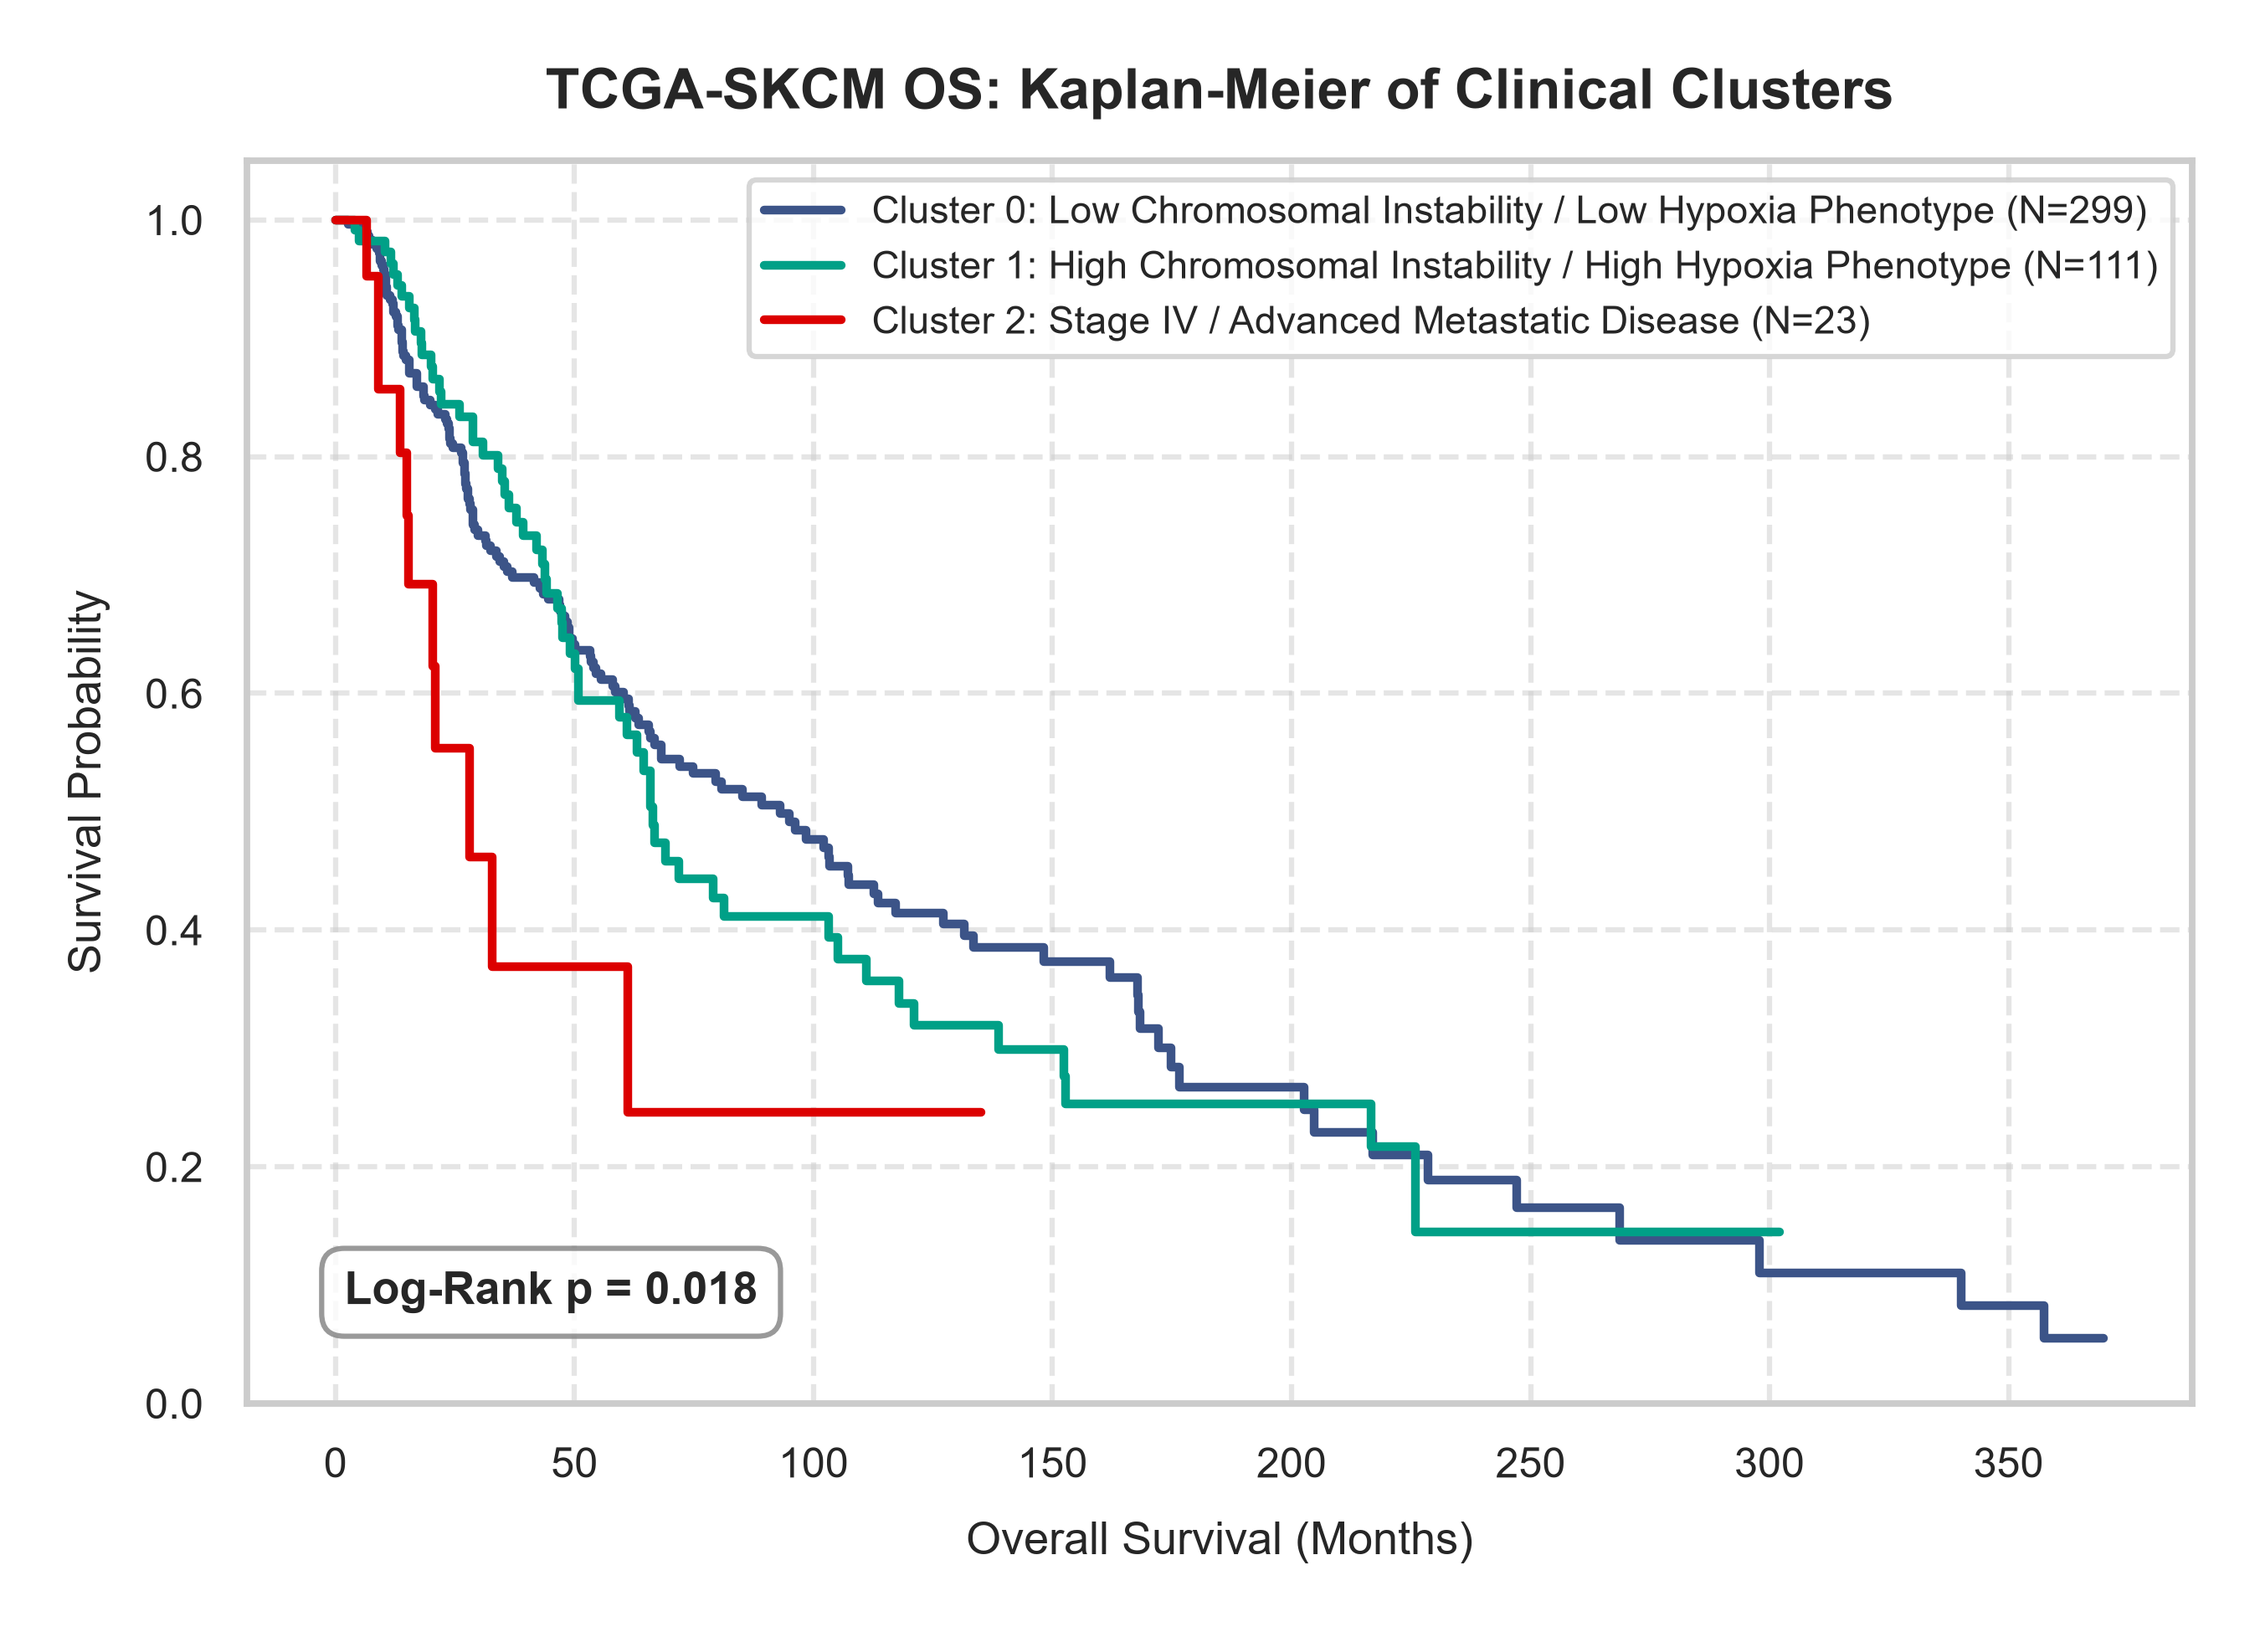
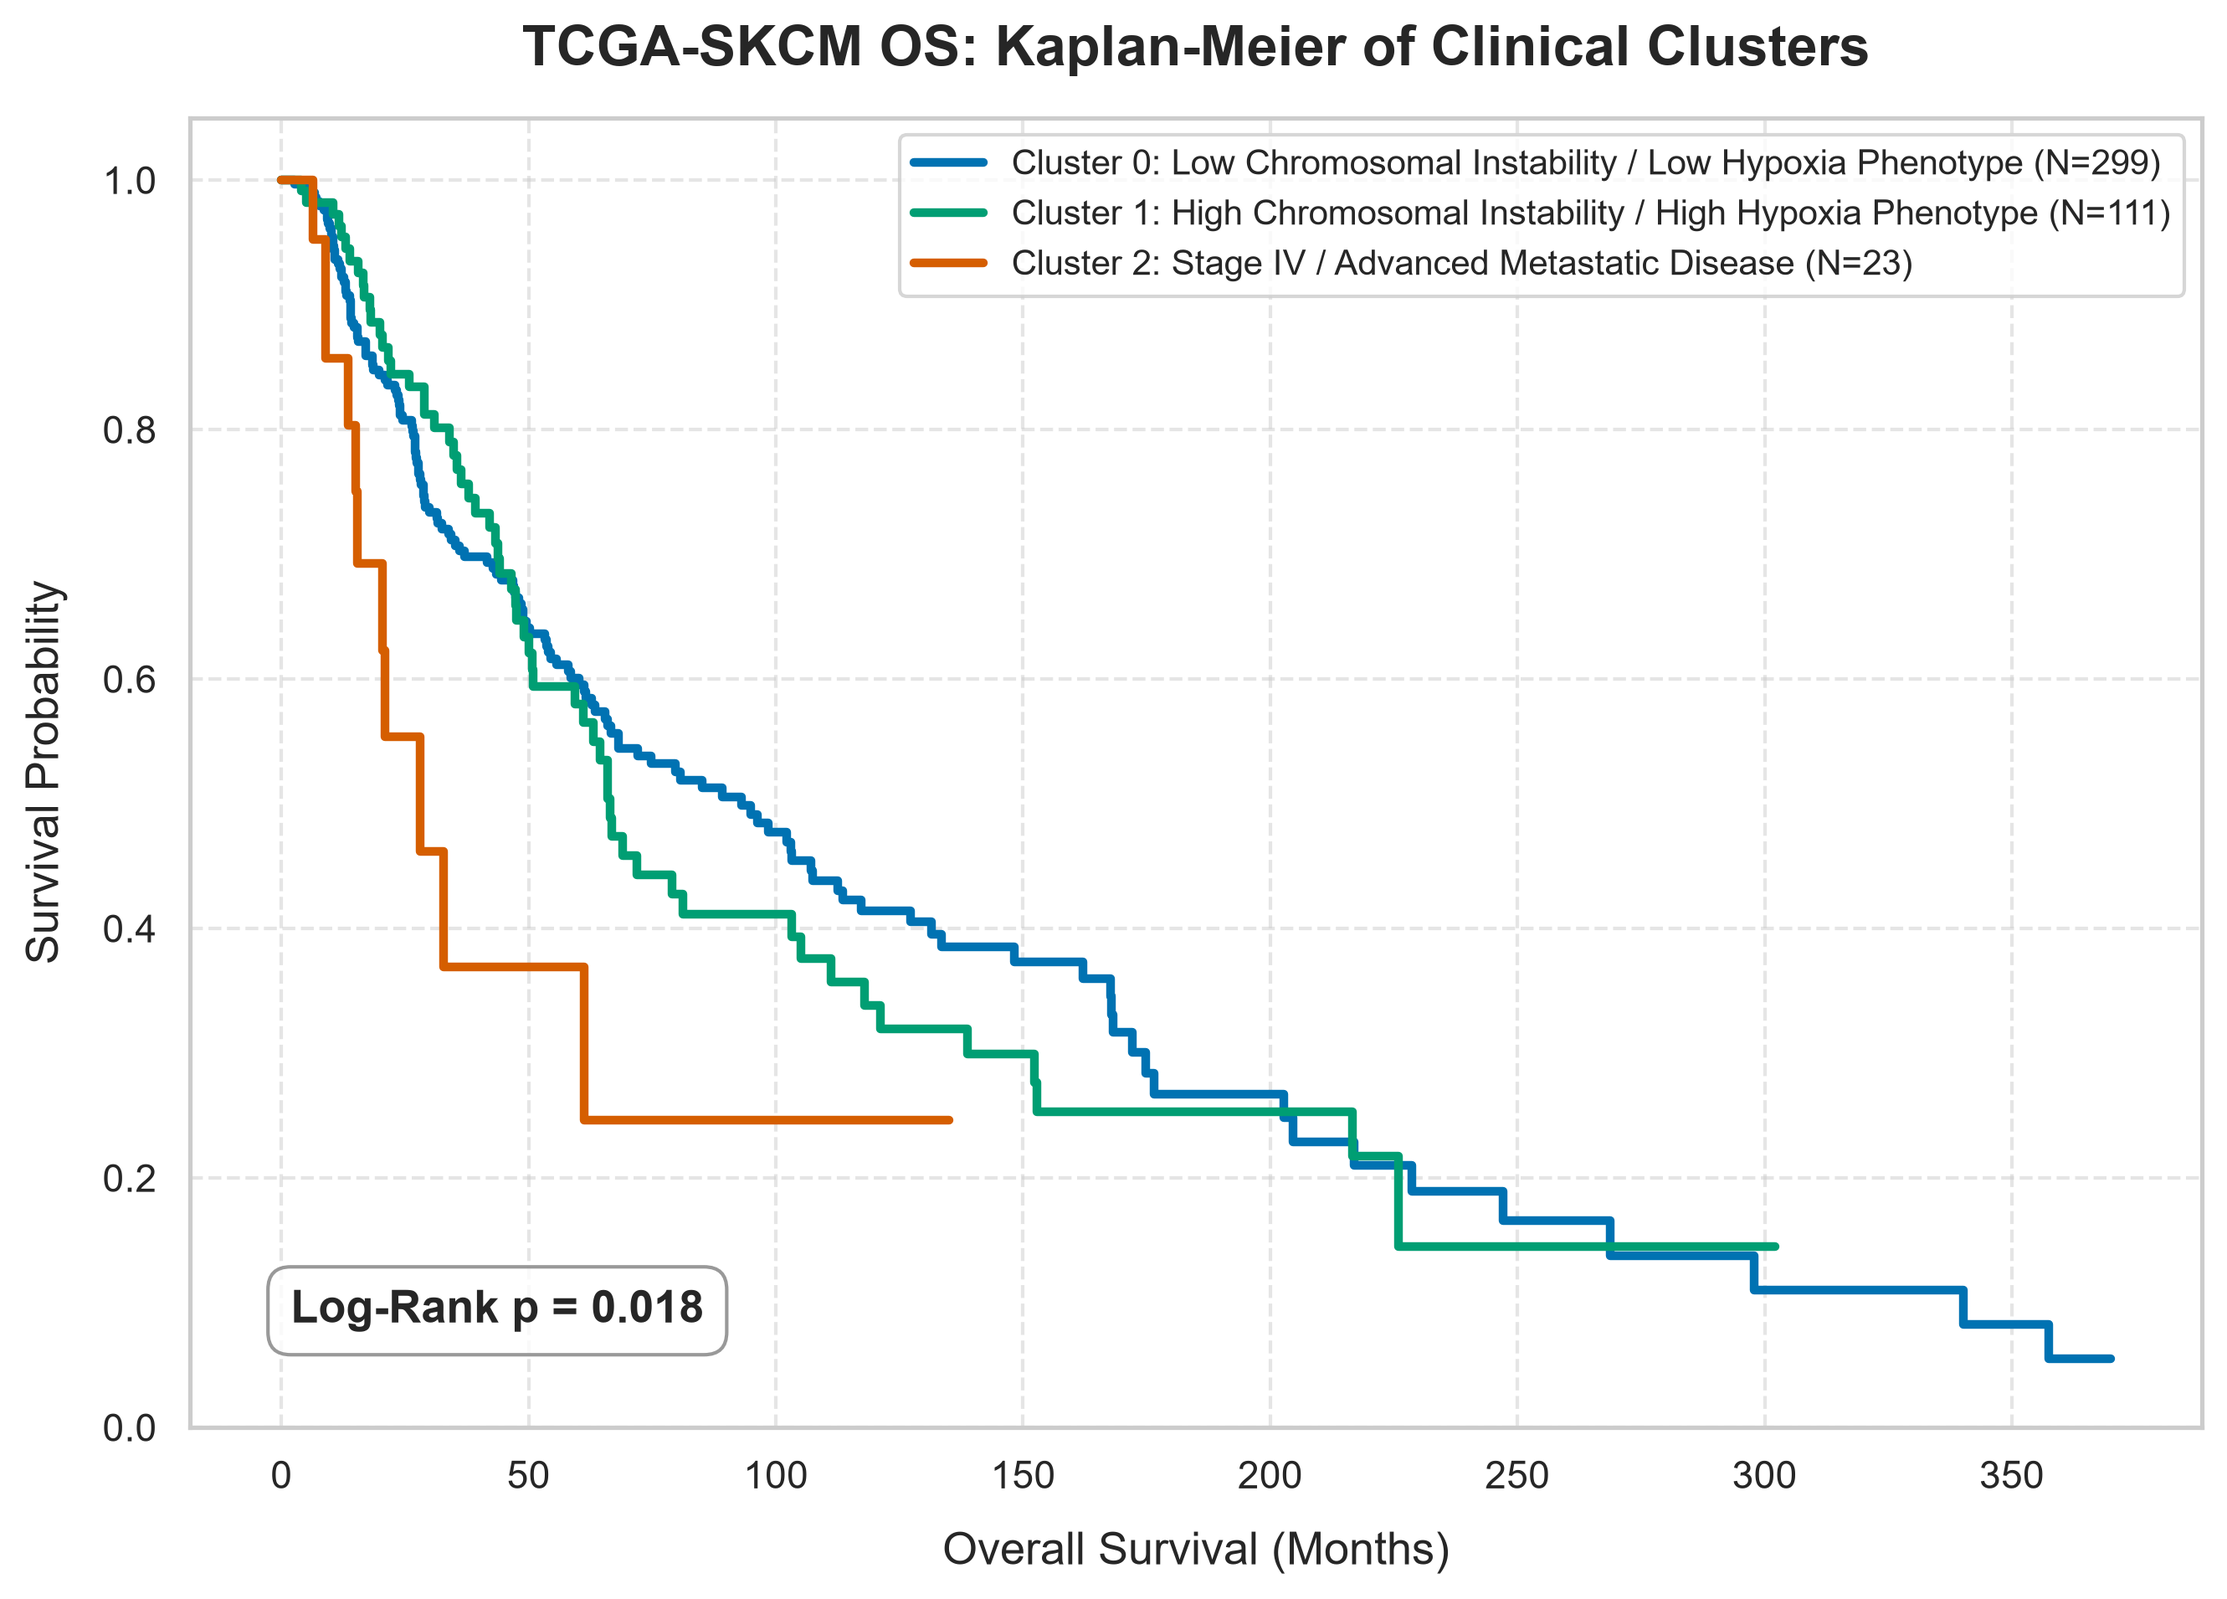
style(clinical): update figures in clinical_phenotyping_and_feature_selection.md to Okabe-Ito gold standard

diff --git a/q1-response-predictor/scripts/clinical_analysis/run_clinical_feature_selection.py b/q1-response-predictor/scripts/clinical_analysis/run_clinical_feature_selection.py
@@ -268,6 +268,10 @@ def main():
         df_cph['FDR (BH-adjusted p-value)'] = p_adjusted
         df_cph['Significant (FDR < 0.05)'] = rejected
 
+    from src.styles import RESPONSE_PALETTE, set_presentation_style
+
+    set_presentation_style()
+
     # Sort by p-value
     df_cph = df_cph.sort_values(by='p-value', ascending=True)
     print(df_cph.head(15).to_string(index=False))
@@ -284,7 +288,7 @@ def main():
     plt.subplots_adjust(left=0.32, right=0.62, top=0.88, bottom=0.20)
     
     ax.set_xscale('log')
-    ax.axvline(1.0, color='#888888', linestyle='--', linewidth=1.0, alpha=0.7)
+    ax.axvline(1.0, color='#555555', linestyle='--', linewidth=1.5, zorder=1)
     
     for i, row in df_forest.iterrows():
         hr = row['Hazard Ratio (HR)']
@@ -293,7 +297,7 @@ def main():
         is_sig = row['Significant (FDR < 0.05)']
         
         if is_sig:
-            color = '#e05a47' if hr > 1.0 else '#2b8cbe'
+            color = RESPONSE_PALETTE['PD'] if hr > 1.0 else RESPONSE_PALETTE['CR/PR']
             weight = 'bold'
         else:
             color = '#777777'
@@ -344,8 +348,8 @@ def main():
     
     import matplotlib.lines as mlines
     legend_elements = [
-        mlines.Line2D([0], [0], marker='s', color='none', markerfacecolor='#e05a47', markeredgecolor='none', markersize=8, label='Significant Risk (FDR < 0.05, HR > 1.0)'),
-        mlines.Line2D([0], [0], marker='s', color='none', markerfacecolor='#2b8cbe', markeredgecolor='none', markersize=8, label='Significant Protective (FDR < 0.05, HR < 1.0)'),
+        mlines.Line2D([0], [0], marker='s', color='none', markerfacecolor=RESPONSE_PALETTE['PD'], markeredgecolor='none', markersize=8, label='Significant Risk (FDR < 0.05, HR > 1.0)'),
+        mlines.Line2D([0], [0], marker='s', color='none', markerfacecolor=RESPONSE_PALETTE['CR/PR'], markeredgecolor='none', markersize=8, label='Significant Protective (FDR < 0.05, HR < 1.0)'),
         mlines.Line2D([0], [0], marker='s', color='none', markerfacecolor='#777777', markeredgecolor='none', markersize=8, label='Non-Significant (FDR \u2265 0.05)')
     ]
     ax.legend(

diff --git a/q1-response-predictor/scripts/clinical_analysis/run_clinical_clustering.py b/q1-response-predictor/scripts/clinical_analysis/run_clinical_clustering.py
@@ -99,8 +99,11 @@ def main():
         'legend.fontsize': 11
     })
 
+    from src.styles import COHORT_PALETTE, RESPONSE_PALETTE, set_presentation_style
+
+    set_presentation_style()
     fig, ax = plt.subplots(figsize=(9, 6.5))
-    colors = ["#3C5488", "#00A087", "#DC0000"] # Nature Publishing Group (NPG) palette
+    colors = [COHORT_PALETTE["Liu 2019"], RESPONSE_PALETTE["CR/PR"], RESPONSE_PALETTE["PD"]] # Blue, Bluish Green, Vermillion Red
     
     kmf = KaplanMeierFitter()
     
